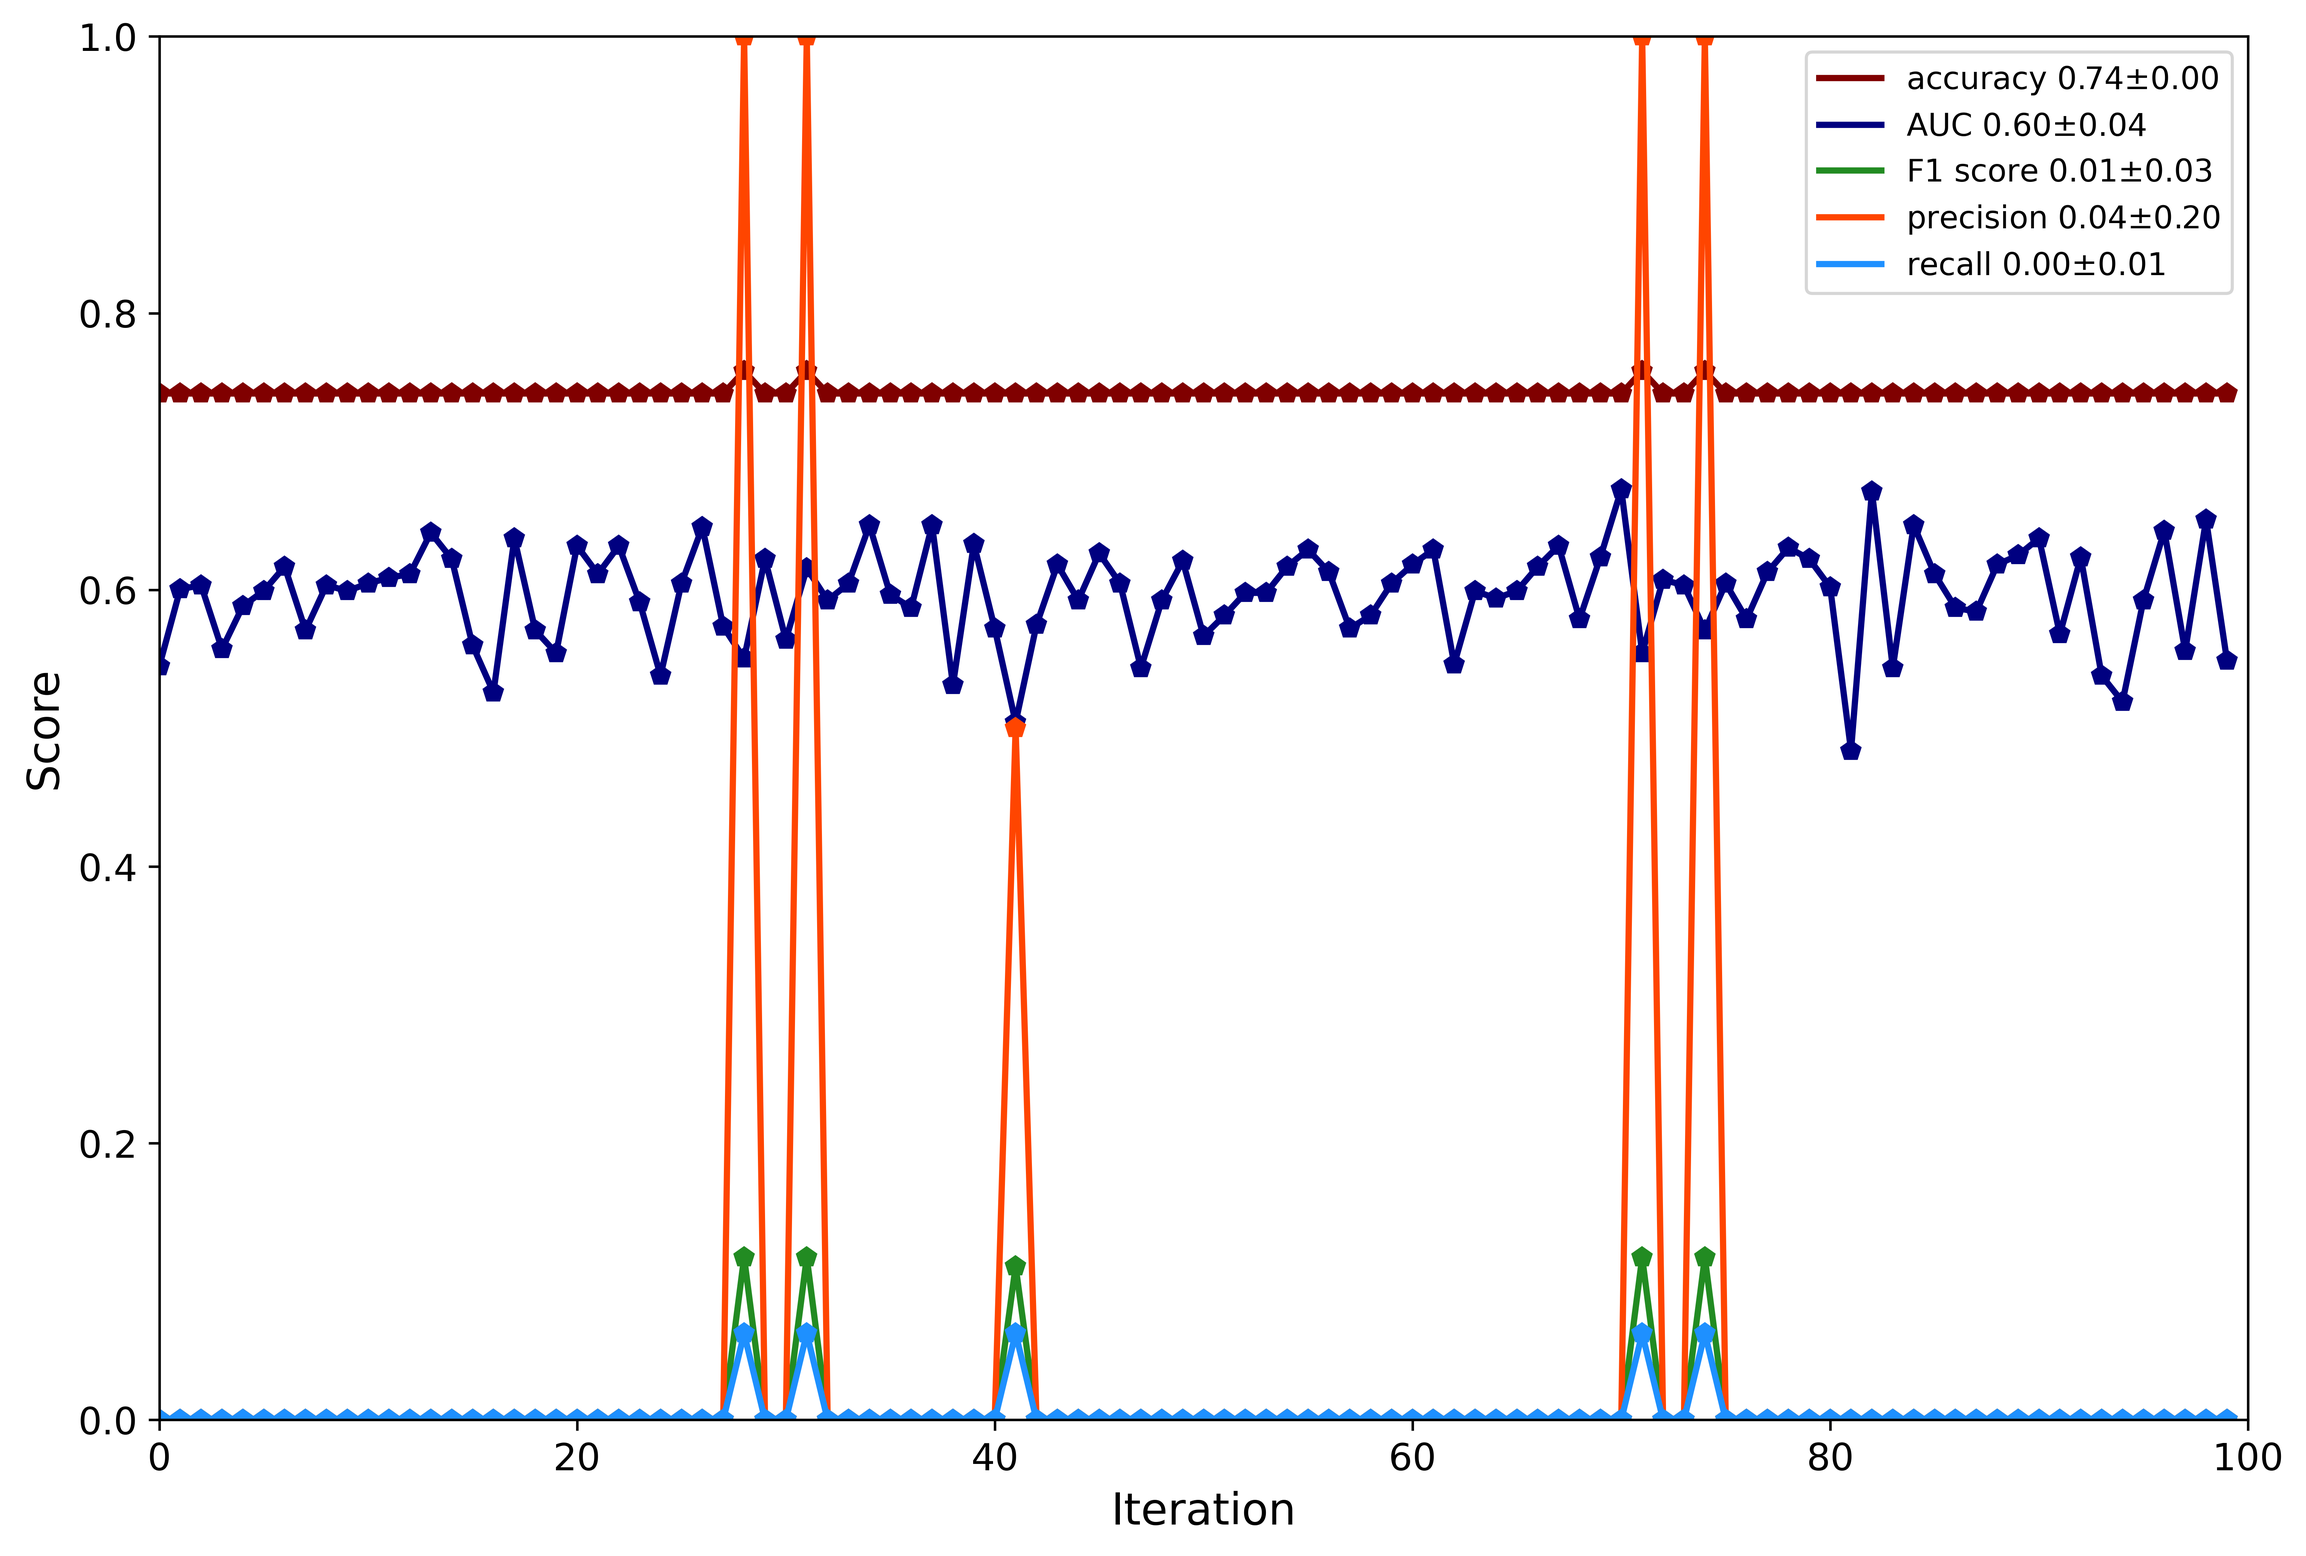
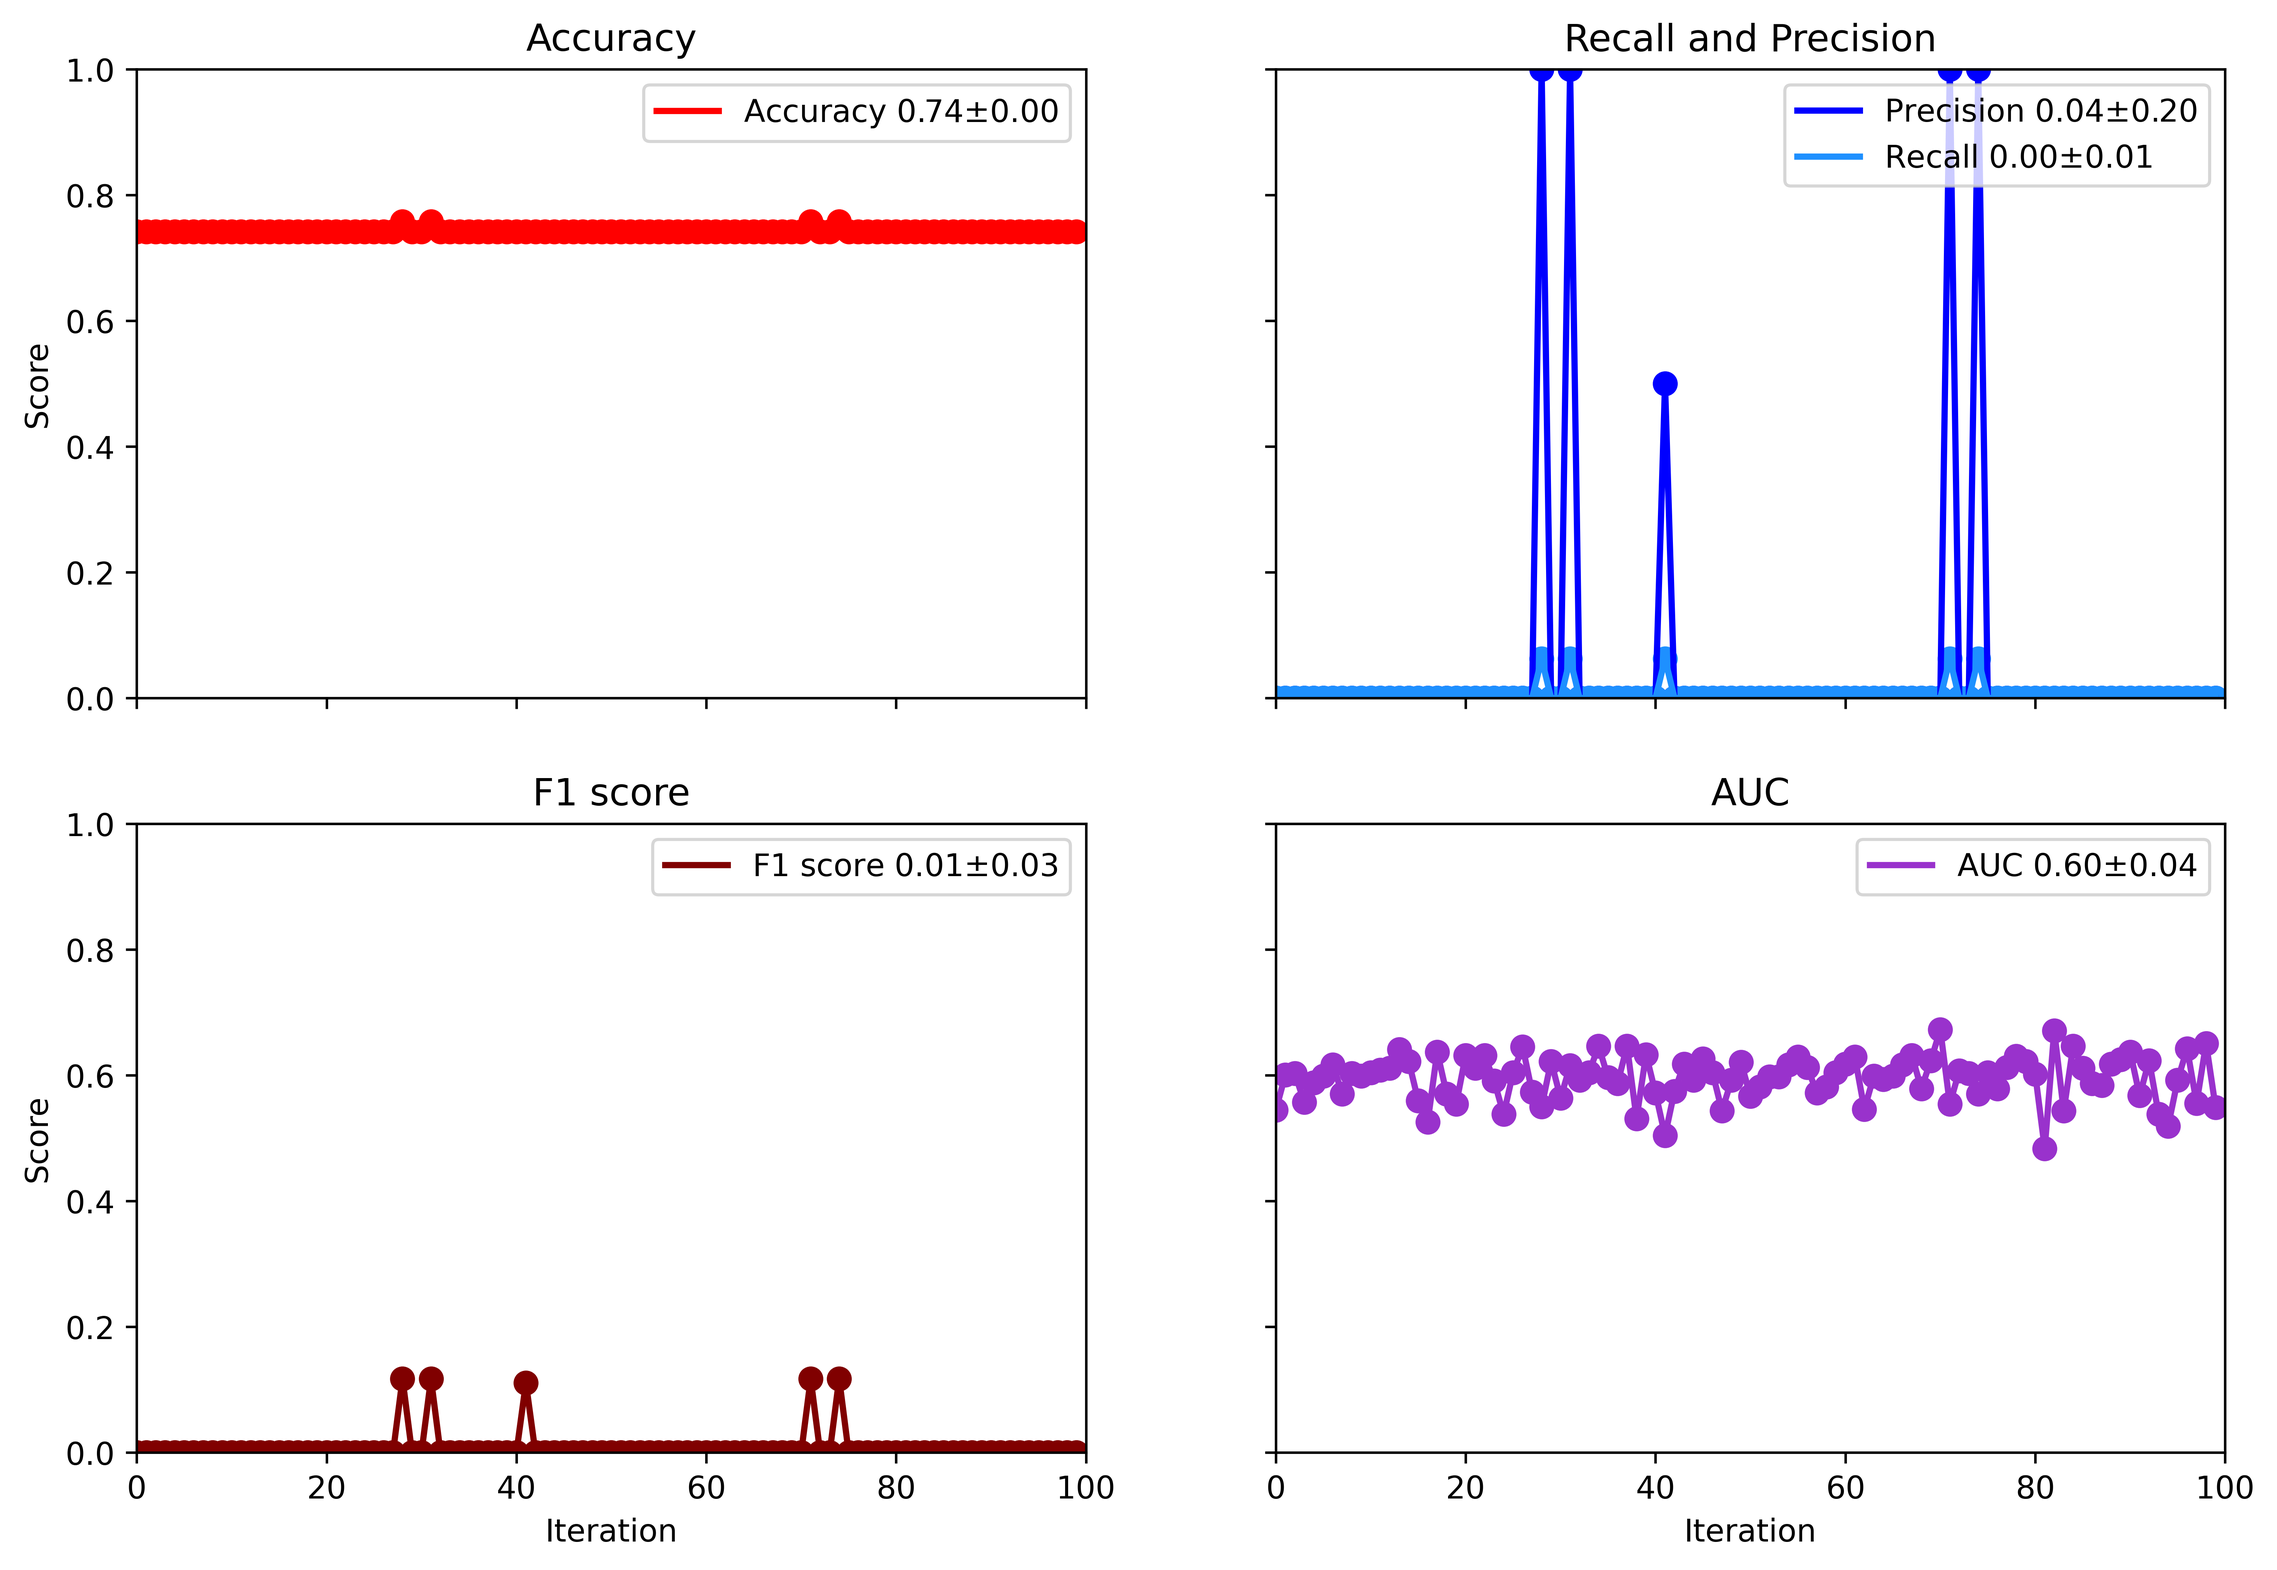
Intensive test results and presentation

diff --git a/model_analysis/MD/plot.py b/model_analysis/MD/plot.py
@@ -11,25 +11,33 @@ def plot_params():
     precision = np.loadtxt("precision.csv")
     recall = np.loadtxt("recall.csv")
 
-    fig, ax = plt.subplots(figsize=[12,8])
+    fig, ax = plt.subplots(2, 2, figsize=[12,8])
 
-    def plot_lines(var, var_name, color):
-        ax.plot(var, label=var_name+f" {np.mean(var):.2f}$\pm${np.std(var):.2f}", color=color, lw=2)
-        ax.plot(var, "p", color=color, lw=2)
+    def plot_lines(axes, var, var_name, color, title=None):
+        axes.plot(var, label=var_name+f" {np.mean(var):.2f}$\pm${np.std(var):.2f}", color=color, lw=2)
+        axes.scatter(range(100), var, color=color, lw=2)
+        axes.set_title(var_name)
+        if title:
+            axes.set_title(title)
+        
+        axes.legend(loc="upper right")
+        axes.set_xlim([0,100])
+        axes.set_ylim([0,1])
 
-    plot_lines(accuracy, "accuracy", "maroon")
-    plot_lines(auc, "AUC", "navy")
-    plot_lines(fscore, "F1 score", "forestgreen")
-    plot_lines(precision, "precision", "orangered")
-    plot_lines(recall, "recall", "dodgerblue")
+    plot_lines(ax[0,0], accuracy, "Accuracy", "red")
+    plot_lines(ax[1,1], auc, "AUC", "darkorchid")
+    plot_lines(ax[1,0], fscore, "F1 score", "maroon")
+    plot_lines(ax[0,1], precision, "Precision", "blue")
+    plot_lines(ax[0,1], recall, "Recall", "dodgerblue", title="Recall and Precision")
     
-    plt.xlabel("Iteration", size=14)
-    plt.ylabel("Score", size=14)
-    plt.xticks(size=12)
-    plt.yticks(size=12)
-    plt.legend(loc="upper right")
-    plt.xlim([0,100])
-    plt.ylim([0,1])
+    for ax in ax.flat:
+        ax.set(xlabel="Iteration", ylabel="Score")
+        ax.label_outer()
+    
+    #plt.xlabel("Iteration", size=14)
+    #plt.ylabel("Score", size=14)
+    #plt.xticks(size=12)
+    #plt.yticks(size=12)
     plt.savefig("main.png", dpi=600, bbox_inches='tight')
     plt.show()    
 

diff --git a/model_analysis/MDAF-NOSMOTE/plot.py b/model_analysis/MDAF-NOSMOTE/plot.py
@@ -11,25 +11,33 @@ def plot_params():
     precision = np.loadtxt("precision.csv")
     recall = np.loadtxt("recall.csv")
 
-    fig, ax = plt.subplots(figsize=[12,8])
+    fig, ax = plt.subplots(2, 2, figsize=[12,8])
 
-    def plot_lines(var, var_name, color):
-        ax.plot(var, label=var_name+f" {np.mean(var):.2f}$\pm${np.std(var):.2f}", color=color, lw=2)
-        ax.plot(var, "p", color=color, lw=2)
+    def plot_lines(axes, var, var_name, color, title=None):
+        axes.plot(var, label=var_name+f" {np.mean(var):.2f}$\pm${np.std(var):.2f}", color=color, lw=2)
+        axes.scatter(range(100), var, color=color, lw=2)
+        axes.set_title(var_name)
+        if title:
+            axes.set_title(title)
+        
+        axes.legend(loc="upper right")
+        axes.set_xlim([0,100])
+        axes.set_ylim([0,1])
 
-    plot_lines(accuracy, "accuracy", "maroon")
-    plot_lines(auc, "AUC", "navy")
-    plot_lines(fscore, "F1 score", "forestgreen")
-    plot_lines(precision, "precision", "orangered")
-    plot_lines(recall, "recall", "dodgerblue")
+    plot_lines(ax[0,0], accuracy, "Accuracy", "red")
+    plot_lines(ax[1,1], auc, "AUC", "darkorchid")
+    plot_lines(ax[1,0], fscore, "F1 score", "maroon")
+    plot_lines(ax[0,1], precision, "Precision", "blue")
+    plot_lines(ax[0,1], recall, "Recall", "dodgerblue", title="Recall and Precision")
     
-    plt.xlabel("Iteration", size=14)
-    plt.ylabel("Score", size=14)
-    plt.xticks(size=12)
-    plt.yticks(size=12)
-    plt.legend(loc="upper right")
-    plt.xlim([0,100])
-    plt.ylim([0,1])
+    for ax in ax.flat:
+        ax.set(xlabel="Iteration", ylabel="Score")
+        ax.label_outer()
+    
+    #plt.xlabel("Iteration", size=14)
+    #plt.ylabel("Score", size=14)
+    #plt.xticks(size=12)
+    #plt.yticks(size=12)
     plt.savefig("main.png", dpi=600, bbox_inches='tight')
     plt.show()    
 

diff --git a/model_analysis/MDAF/plot.py b/model_analysis/MDAF/plot.py
@@ -11,25 +11,33 @@ def plot_params():
     precision = np.loadtxt("precision.csv")
     recall = np.loadtxt("recall.csv")
 
-    fig, ax = plt.subplots(figsize=[12,8])
+    fig, ax = plt.subplots(2, 2, figsize=[12,8])
 
-    def plot_lines(var, var_name, color):
-        ax.plot(var, label=var_name+f" {np.mean(var):.2f}$\pm${np.std(var):.2f}", color=color, lw=2)
-        ax.plot(var, "p", color=color, lw=2)
+    def plot_lines(axes, var, var_name, color, title=None):
+        axes.plot(var, label=var_name+f" {np.mean(var):.2f}$\pm${np.std(var):.2f}", color=color, lw=2)
+        axes.scatter(range(100), var, color=color, lw=2)
+        axes.set_title(var_name)
+        if title:
+            axes.set_title(title)
+        
+        axes.legend(loc="upper right")
+        axes.set_xlim([0,100])
+        axes.set_ylim([0,1])
 
-    plot_lines(accuracy, "accuracy", "maroon")
-    plot_lines(auc, "AUC", "navy")
-    plot_lines(fscore, "F1 score", "forestgreen")
-    plot_lines(precision, "precision", "orangered")
-    plot_lines(recall, "recall", "dodgerblue")
+    plot_lines(ax[0,0], accuracy, "Accuracy", "red")
+    plot_lines(ax[1,1], auc, "AUC", "darkorchid")
+    plot_lines(ax[1,0], fscore, "F1 score", "maroon")
+    plot_lines(ax[0,1], precision, "Precision", "blue")
+    plot_lines(ax[0,1], recall, "Recall", "dodgerblue", title="Recall and Precision")
     
-    plt.xlabel("Iteration", size=14)
-    plt.ylabel("Score", size=14)
-    plt.xticks(size=12)
-    plt.yticks(size=12)
-    plt.legend(loc="upper right")
-    plt.xlim([0,100])
-    plt.ylim([0,1])
+    for ax in ax.flat:
+        ax.set(xlabel="Iteration", ylabel="Score")
+        ax.label_outer()
+    
+    #plt.xlabel("Iteration", size=14)
+    #plt.ylabel("Score", size=14)
+    #plt.xticks(size=12)
+    #plt.yticks(size=12)
     plt.savefig("main.png", dpi=600, bbox_inches='tight')
     plt.show()    
 

diff --git a/model_analysis/base-NOSMOTE/plot.py b/model_analysis/base-NOSMOTE/plot.py
@@ -11,25 +11,33 @@ def plot_params():
     precision = np.loadtxt("precision.csv")
     recall = np.loadtxt("recall.csv")
 
-    fig, ax = plt.subplots(figsize=[12,8])
+    fig, ax = plt.subplots(2, 2, figsize=[12,8])
 
-    def plot_lines(var, var_name, color):
-        ax.plot(var, label=var_name+f" {np.mean(var):.2f}$\pm${np.std(var):.2f}", color=color, lw=2)
-        ax.plot(var, "p", color=color, lw=2)
+    def plot_lines(axes, var, var_name, color, title=None):
+        axes.plot(var, label=var_name+f" {np.mean(var):.2f}$\pm${np.std(var):.2f}", color=color, lw=2)
+        axes.scatter(range(100), var, color=color, lw=2)
+        axes.set_title(var_name)
+        if title:
+            axes.set_title(title)
+        
+        axes.legend(loc="upper right")
+        axes.set_xlim([0,100])
+        axes.set_ylim([0,1])
 
-    plot_lines(accuracy, "accuracy", "maroon")
-    plot_lines(auc, "AUC", "navy")
-    plot_lines(fscore, "F1 score", "forestgreen")
-    plot_lines(precision, "precision", "orangered")
-    plot_lines(recall, "recall", "dodgerblue")
+    plot_lines(ax[0,0], accuracy, "Accuracy", "red")
+    plot_lines(ax[1,1], auc, "AUC", "darkorchid")
+    plot_lines(ax[1,0], fscore, "F1 score", "maroon")
+    plot_lines(ax[0,1], precision, "Precision", "blue")
+    plot_lines(ax[0,1], recall, "Recall", "dodgerblue", title="Recall and Precision")
     
-    plt.xlabel("Iteration", size=14)
-    plt.ylabel("Score", size=14)
-    plt.xticks(size=12)
-    plt.yticks(size=12)
-    plt.legend(loc="upper right")
-    plt.xlim([0,100])
-    plt.ylim([0,1])
+    for ax in ax.flat:
+        ax.set(xlabel="Iteration", ylabel="Score")
+        ax.label_outer()
+    
+    #plt.xlabel("Iteration", size=14)
+    #plt.ylabel("Score", size=14)
+    #plt.xticks(size=12)
+    #plt.yticks(size=12)
     plt.savefig("main.png", dpi=600, bbox_inches='tight')
     plt.show()    
 

diff --git a/model_analysis/base/plot.py b/model_analysis/base/plot.py
@@ -11,25 +11,33 @@ def plot_params():
     precision = np.loadtxt("precision.csv")
     recall = np.loadtxt("recall.csv")
 
-    fig, ax = plt.subplots(figsize=[12,8])
+    fig, ax = plt.subplots(2, 2, figsize=[12,8])
 
-    def plot_lines(var, var_name, color):
-        ax.plot(var, label=var_name+f" {np.mean(var):.2f}$\pm${np.std(var):.2f}", color=color, lw=2)
-        ax.plot(var, "p", color=color, lw=2)
+    def plot_lines(axes, var, var_name, color, title=None):
+        axes.plot(var, label=var_name+f" {np.mean(var):.2f}$\pm${np.std(var):.2f}", color=color, lw=2)
+        axes.scatter(range(100), var, color=color, lw=2)
+        axes.set_title(var_name)
+        if title:
+            axes.set_title(title)
+        
+        axes.legend(loc="upper right")
+        axes.set_xlim([0,100])
+        axes.set_ylim([0,1])
 
-    plot_lines(accuracy, "accuracy", "maroon")
-    plot_lines(auc, "AUC", "navy")
-    plot_lines(fscore, "F1 score", "forestgreen")
-    plot_lines(precision, "precision", "orangered")
-    plot_lines(recall, "recall", "dodgerblue")
+    plot_lines(ax[0,0], accuracy, "Accuracy", "red")
+    plot_lines(ax[1,1], auc, "AUC", "darkorchid")
+    plot_lines(ax[1,0], fscore, "F1 score", "maroon")
+    plot_lines(ax[0,1], precision, "Precision", "blue")
+    plot_lines(ax[0,1], recall, "Recall", "dodgerblue", title="Recall and Precision")
     
-    plt.xlabel("Iteration", size=14)
-    plt.ylabel("Score", size=14)
-    plt.xticks(size=12)
-    plt.yticks(size=12)
-    plt.legend(loc="upper right")
-    plt.xlim([0,100])
-    plt.ylim([0,1])
+    for ax in ax.flat:
+        ax.set(xlabel="Iteration", ylabel="Score")
+        ax.label_outer()
+    
+    #plt.xlabel("Iteration", size=14)
+    #plt.ylabel("Score", size=14)
+    #plt.xticks(size=12)
+    #plt.yticks(size=12)
     plt.savefig("main.png", dpi=600, bbox_inches='tight')
     plt.show()    
 
